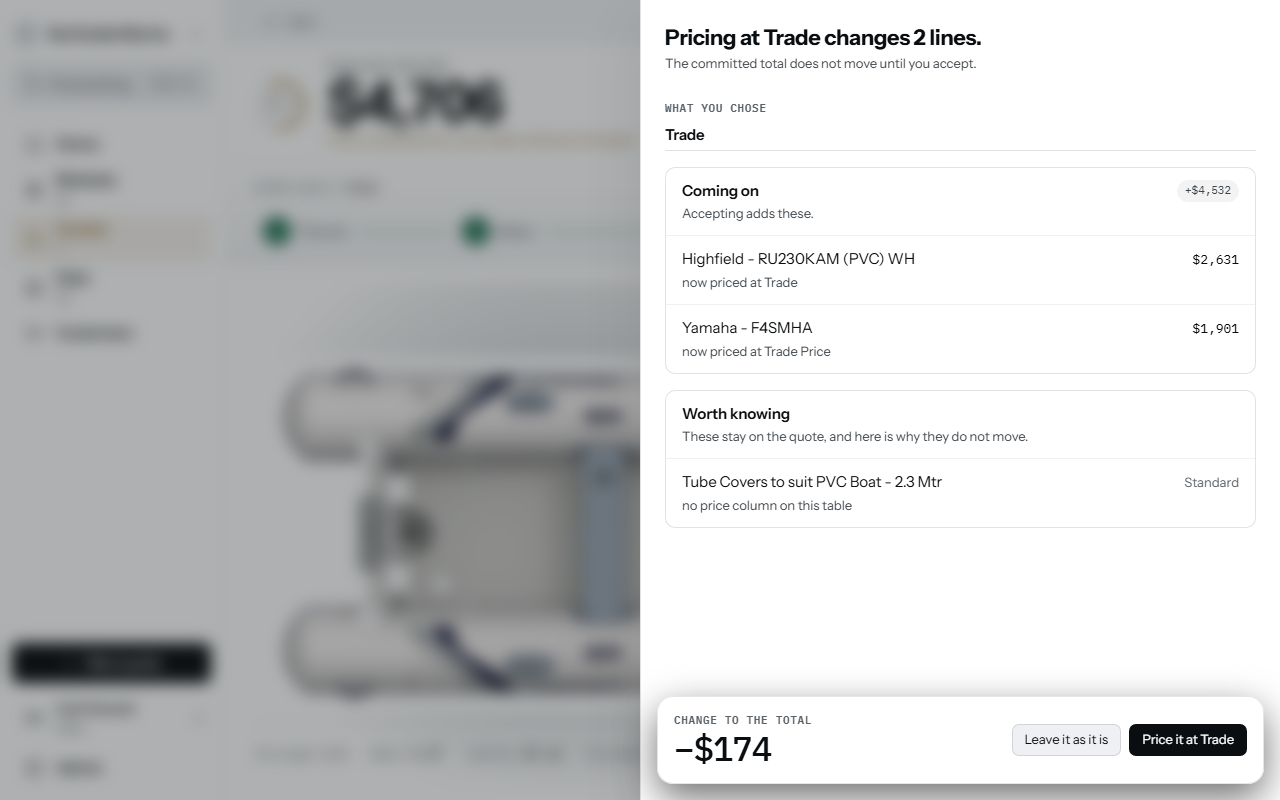
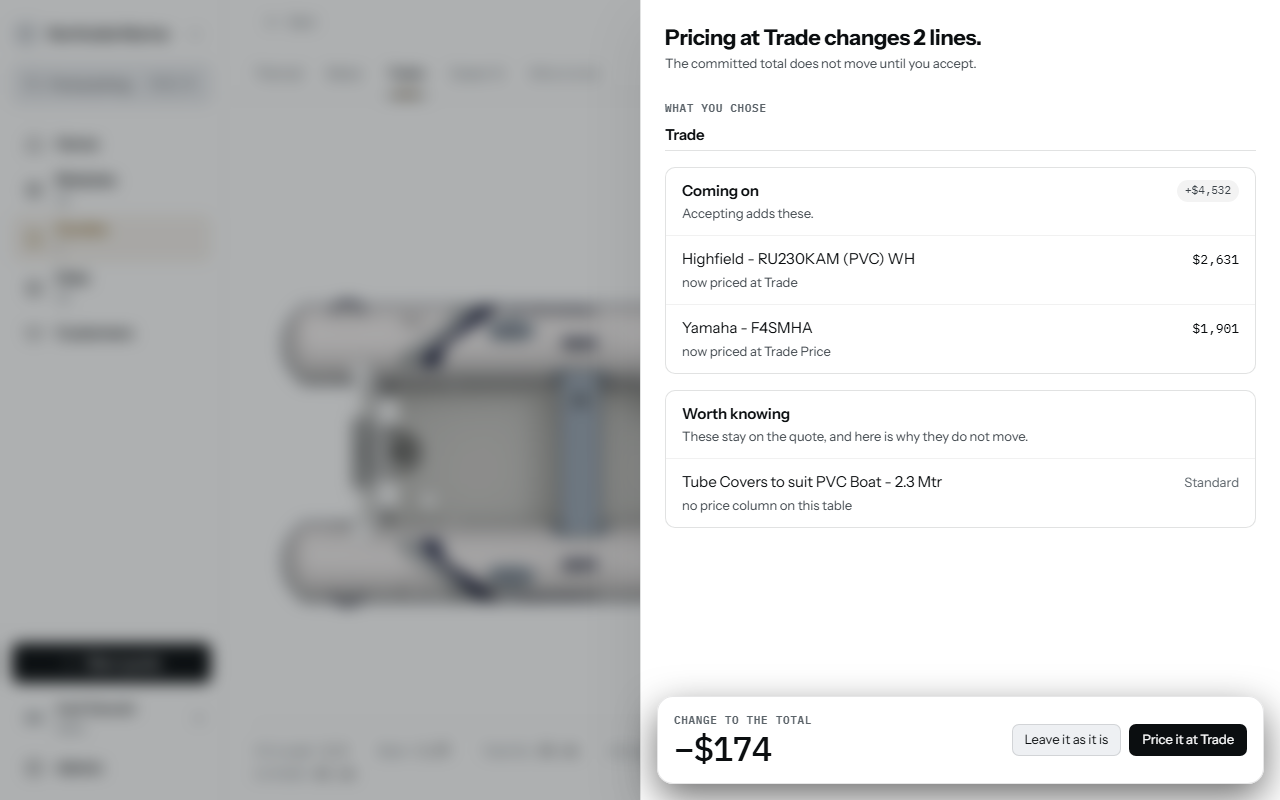
The configurator is re-cut to the reference: 290px of chrome comes off the top
"Configurator still sucks." Photographed on the hull step at 1440 and
read against Porsche's: 290 of 900 pixels were chrome before the boat.
A grey strip with Back; a glass card with a ring, PACKAGE PRICING, a
56px figure, a tax sentence, Cash/Trade, a refused button and its
paragraph; then a stepper with pills, circles, ticks and a "chosen: …"
caption under every stop. The rail said the model's name three times.

Nothing in the markup moved. The money card was already the first
child of .bs and is placed by grid-area; its area goes from the top of
the page to the foot of the right column, bottom right, where every
reference puts its summary — and it still fills up, the ring smaller
beside the figure. The stepper is a line of words with the current one
underlined: no marks, no captions, no count. The stage is the hull on
white, full height, figures on a hairline under it.

The grey behind the hull survived two overrides because it was not an
element: elementsFromPoint on the grey came back rgb(255,255,255) all
the way down. It was m-lit::before, the shared stage's spotlight, and
on white a spotlight is a grey smudge the shape of a spotlight. Off
under .bs-product. Under 1000 the spec figures get their own row —
at 834 "Tube Dia 36 cm" was painted across the transom.

Measured after: seven guards green, 2,974 tests; nothing overlaps;
1,369 text nodes clear contrast; sweep clean; configurator and document
baselines re-taken and looked at. Flagged: the configurator's scale
[…]

diff --git a/src/features/quote/build-screen.css b/src/features/quote/build-screen.css
@@ -1482,3 +1482,331 @@
   border-radius: 0;
   background: none;
 }
+
+/* ============================================================
+   THE CONFIGURATOR, RE-CUT TO THE REFERENCE — 2026-09-15.
+
+   The owner, after the unframing pass: "Configurator still sucks."
+   Photographed on the hull step at 1440 and read against Porsche's:
+
+     290 OF 900 PIXELS WERE CHROME BEFORE THE BOAT. A grey strip
+     with "Back"; then a glass card with a ring, PACKAGE PRICING,
+     a 56px figure, a tax sentence, a Cash/Trade toggle, a grey
+     refused button and its refusal paragraph; then a stepper with
+     pills, numbered circles, ticks and a "chosen: …" caption under
+     every stop. Porsche's top is one 56px bar. The hull started at
+     y=290.
+
+     THE NAME WAS ON THE RAIL THREE TIMES: the side head, the
+     "chosen:" caption, and a cream bordered chip — all "Highfield -
+     RU230KAM (PVC) WH".
+
+     AND THE HULL SAT IN A GREY BLOB. The shared stage's sweep
+     gradient and its 70px inset vignette survived the earlier
+     override because that rule was less specific than the one in
+     `productstage.css` that sets them.
+
+   WHAT IT IS NOW — Porsche's shape, nothing invented:
+
+     the steps    one line of words across the top, the current one
+                  underlined. No circles, no ticks, no captions.
+     the stage    the hull, full height, on white, figures on a
+                  hairline under it
+     the rail     this step's options, scrolling
+     the foot     the price, the level, the one action — the FOOT
+                  OF THE RAIL, bottom right, where every reference
+                  puts its summary. It still fills up: the ring is
+                  there, smaller, beside the figure.
+
+   Nothing in the markup moved. The money card was already the
+   first child of `.bs`; it is placed by grid-area and this pass
+   moves its area from the top of the page to the foot of the
+   right column.
+   ============================================================ */
+
+.bs {
+  grid-template-columns: minmax(0, 1fr) clamp(380px, 32vw, 520px);
+  grid-template-rows: auto minmax(0, 1fr) auto;
+  grid-template-areas:
+    'rail rail'
+    'stage side'
+    'stage money';
+  background: var(--surface-1);
+}
+
+/* -- the steps: words on a line -------------------------------- */
+
+.bs-rail {
+  padding: var(--s-2) var(--gutter) 0;
+  border-bottom: var(--border) solid var(--line);
+  background: none;
+}
+
+.bs-rail .ui-stepper-count,
+.bs-rail .ui-stepper-chose,
+.bs-rail .ui-stepper-mark,
+.bs-rail .ui-stepper-run {
+  display: none;
+}
+
+.bs-rail .ui-stepper-list {
+  display: flex;
+  flex-wrap: wrap;
+  gap: 0 var(--s-6);
+  margin: 0;
+  padding: 0;
+  list-style: none;
+}
+
+.bs-rail .ui-stepper-item {
+  flex: 0 0 auto;
+  min-width: 0;
+}
+
+.bs-rail .ui-stepper-go {
+  display: block;
+  padding: var(--s-3) 0 var(--s-3);
+  border: 0;
+  border-bottom: var(--border-strong) solid transparent;
+  border-radius: 0;
+  background: none;
+  box-shadow: none;
+  margin-bottom: calc(-1 * var(--border));
+}
+
+.bs-rail .ui-stepper-name {
+  color: var(--fg-tertiary);
+}
+
+.bs-rail .ui-stepper-item[data-state='done'] .ui-stepper-name {
+  color: var(--fg-secondary);
+}
+
+.bs-rail .ui-stepper-item[data-state='current'] .ui-stepper-go,
+.bs-rail .ui-stepper-go[aria-current] {
+  border-bottom-color: var(--fg);
+}
+
+.bs-rail .ui-stepper-item[data-state='current'] .ui-stepper-name,
+.bs-rail .ui-stepper-go[aria-current] .ui-stepper-name {
+  color: var(--fg);
+  font-weight: 600;
+}
+
+@media (hover: hover) and (pointer: fine) {
+  .bs-rail .ui-stepper-go:hover {
+    background: none;
+    border-bottom-color: var(--line-strong);
+  }
+
+  .bs-rail .ui-stepper-go:hover .ui-stepper-name {
+    color: var(--fg);
+  }
+}
+
+/* -- the stage: the hull, and nothing around it ---------------- */
+
+.bs .bs-product .ui-stage .ui-stage-frame {
+  background: var(--surface-1);
+  border: 0;
+  box-shadow: none;
+}
+
+.bs-product {
+  padding: var(--s-6) var(--s-8) var(--s-4) var(--gutter);
+}
+
+.bs-specs {
+  gap: var(--s-1) var(--s-8);
+  padding: var(--s-4) 0 0;
+}
+
+/* -- the rail: the options, once each ------------------------- */
+
+.bs-step {
+  padding: var(--s-5) var(--gutter) var(--s-8) var(--s-6);
+  border-left: var(--border) solid var(--line);
+  background: var(--surface-1);
+}
+
+/* the picked line is a row on a hairline, not a cream chip */
+.bs-line {
+  border: 0;
+  border-bottom: var(--border) solid var(--line);
+  border-radius: 0;
+  background: none;
+  padding-inline: 0;
+}
+
+/* -- the foot: the price, the level, the one action ----------- */
+
+.bs-bar {
+  grid-area: money;
+  min-width: 0;
+  border-left: var(--border) solid var(--line);
+  background: var(--surface-1);
+}
+
+.bs .ui-done {
+  grid-template-columns: auto minmax(0, 1fr);
+  grid-template-areas:
+    'arc figure'
+    'levels levels'
+    'do do';
+  gap: var(--s-3) var(--s-4);
+  margin: 0;
+  padding: var(--s-4) var(--gutter) var(--s-5) var(--s-6);
+  border: 0;
+  border-top: var(--border) solid var(--line);
+  border-radius: 0;
+  background: var(--surface-1);
+  backdrop-filter: none;
+  -webkit-backdrop-filter: none;
+  box-shadow: none;
+}
+
+.bs .ui-done-arc {
+  grid-area: arc;
+  width: 40px;
+  height: 40px;
+}
+
+.bs .ui-done-dial {
+  width: 40px;
+  height: 40px;
+}
+
+.bs .ui-done-figure {
+  grid-area: figure;
+  min-width: 0;
+}
+
+.bs .ui-done-cap {
+  display: none;
+}
+
+.bs .ui-done-now {
+  font-size: var(--t-display-size);
+  font-weight: var(--t-display-weight);
+  line-height: var(--t-display-lead);
+  letter-spacing: var(--t-display-track);
+}
+
+.bs .ui-done-levels {
+  grid-area: levels;
+  justify-self: start;
+}
+
+.bs .ui-done-do {
+  grid-area: do;
+  display: grid;
+  gap: var(--s-2);
+}
+
+.bs .ui-done-do .ui-btn {
+  width: 100%;
+  justify-content: center;
+}
+
+/* ONE COLUMN under 1000: the steps, the hull, the options, the
+   foot — the foot last and sticky, which is where a phone keeps
+   its price. */
+@media (max-width: 1000px) {
+  .bs {
+    grid-template-columns: minmax(0, 1fr);
+    grid-template-rows: auto minmax(240px, 0.8fr) minmax(0, 1fr) auto;
+    grid-template-areas:
+      'rail'
+      'stage'
+      'side'
+      'money';
+  }
+
+  .bs-bar,
+  .bs-step {
+    border-left: 0;
+  }
+
+  .bs-product {
+    padding: var(--s-4) var(--gutter) 0;
+  }
+
+  .bs .ui-done {
+    padding-inline: var(--gutter);
+  }
+}
+
+/* UNDER 1000 THE FIGURES COME OFF THE PICTURE. `.bs-product` stacks
+   the stage and the spec strip in one grid cell so the figures lie
+   along the foot of the hull — which at 834, photographed
+   2026-09-15, put "Tube Dia 36 cm" across the boat's transom
+   because the stage band is short there and the hull fills it.
+   A flex column gives the figures their own row under the
+   picture. */
+@media (max-width: 1000px) {
+  .bs-product {
+    display: flex;
+    flex-direction: column;
+    gap: var(--s-2);
+  }
+
+  .bs-product > .ui-stage {
+    flex: 1 1 auto;
+    min-height: 0;
+  }
+
+  .bs-specs {
+    position: static;
+    flex: 0 0 auto;
+    align-self: stretch;
+    background: var(--surface-1);
+  }
+}
+
+/* THE GREY BEHIND THE HULL WAS `m-lit` — the material class the
+   shared stage puts on its own frame, drawing the dark room's light
+   as a pseudo-element. `elementsFromPoint` on the grey came back
+   white all the way down, because a pseudo-element is not an
+   element: the frame itself was `rgb(255,255,255)` and still grey
+   to look at. On white the "light" is a grey smudge the exact
+   shape of a spotlight, and it followed the frame from the top and
+   bottom at 1440 to the sides at 834. */
+.bs-product .ui-stage-frame.m-lit,
+.bs-product .ui-stage-frame.m-grain {
+  background-image: none;
+}
+
+.bs-product .ui-stage-frame::before,
+.bs-product .ui-stage-frame::after {
+  display: none;
+}
+
+/* THE STEP LINE HOLDS AT EVERY WIDTH. Under 1000 the Stepper's own
+   sheet fills the current stop and underlines it in brass at a
+   specificity the rules above did not reach — photographed at 834,
+   "The hull" in a grey pill under a black line under a brass line.
+   One rule, one selector deeper, for every width. */
+.bs .bs-rail .ui-stepper-item,
+.bs .bs-rail .ui-stepper-item[data-state='current'] {
+  border: 0;
+  border-radius: 0;
+  background: none;
+  box-shadow: none;
+}
+
+.bs .bs-rail .ui-stepper-item[data-state='current'] .ui-stepper-go {
+  background: none;
+  border-bottom-color: var(--fg);
+  box-shadow: none;
+}
+
+/* the picked lines start where the words above them start */
+.bs-picked {
+  margin: 0;
+  padding: 0;
+  list-style: none;
+}
+
+.bs-part {
+  padding-inline: 0;
+}

diff --git a/src/app/shell.css b/src/app/shell.css
@@ -3410,3 +3410,17 @@
     background: var(--surface-1);
   }
 }
+
+/* THE CONFIGURATOR'S BAR TAKES THE STAGE'S GROUND, for the reason the
+   catalogue's does: a 44px `--bg` strip with "Back" in it over a
+   white page is a second header. */
+.shell-viewstage:has(> .bs),
+.shell-viewstage:has(.bs) .shell-view-bar {
+  background: var(--surface-1);
+}
+
+@media (max-width: 1024px) {
+  .shell-body:has(.bs) {
+    background: var(--surface-1);
+  }
+}

diff --git a/docs/research/visual-qa-rebuild.md b/docs/research/visual-qa-rebuild.md
@@ -234,3 +234,34 @@ contrast and the hero step gives 4.73×. The 6× head is the one the owner
 called "awful" in the same session. The number is recorded here so the
 spec and the screen do not disagree in silence; which one moves is the
 owner's call.
+
+## 2026-09-15 — the configurator re-cut
+
+"Configurator still sucks." Photographed on the hull step at 1440 and
+read against Porsche's: **290 of 900 pixels were chrome before the
+boat** — a grey Back strip, a glass money card with a ring, a caption, a
+56px figure, a tax sentence, a level toggle, a refused button and its
+paragraph, then a stepper with pills, circles, ticks and a "chosen: …"
+caption under every stop. The name was on the rail three times. And the
+hull sat in a grey smudge that `elementsFromPoint` could not find,
+because it was `m-lit::before` — the dark room's spotlight, painted by
+the shared stage on its own frame as a pseudo-element.
+
+Nothing in the markup moved. The money card's grid area went from the
+top of the page to the foot of the right column, where every reference
+keeps its summary; the stepper is a line of words with the current one
+underlined; the spotlight is off under `.bs-product`; under 1000 the
+spec figures get their own row instead of lying across the transom.
+
+| ruler | result |
+|---|---|
+| `npm test` | seven green, 2,974 tests |
+| `check-collide` | nothing overlaps, 11 screens |
+| `check-contrast` | 1,369 text nodes, all clear |
+| `qa-sweep` | clean; configurator scale ratio **3.09×** |
+| `check:shots --update` | configurator and document re-taken |
+
+The configurator's scale ratio fell to 3.09× because the marque lockup
+over the hull was already hidden and the price figure now sits at the
+display step. Same standing question as the 4.73× above: the spec says
+6×, the owner said the big head was awful.
